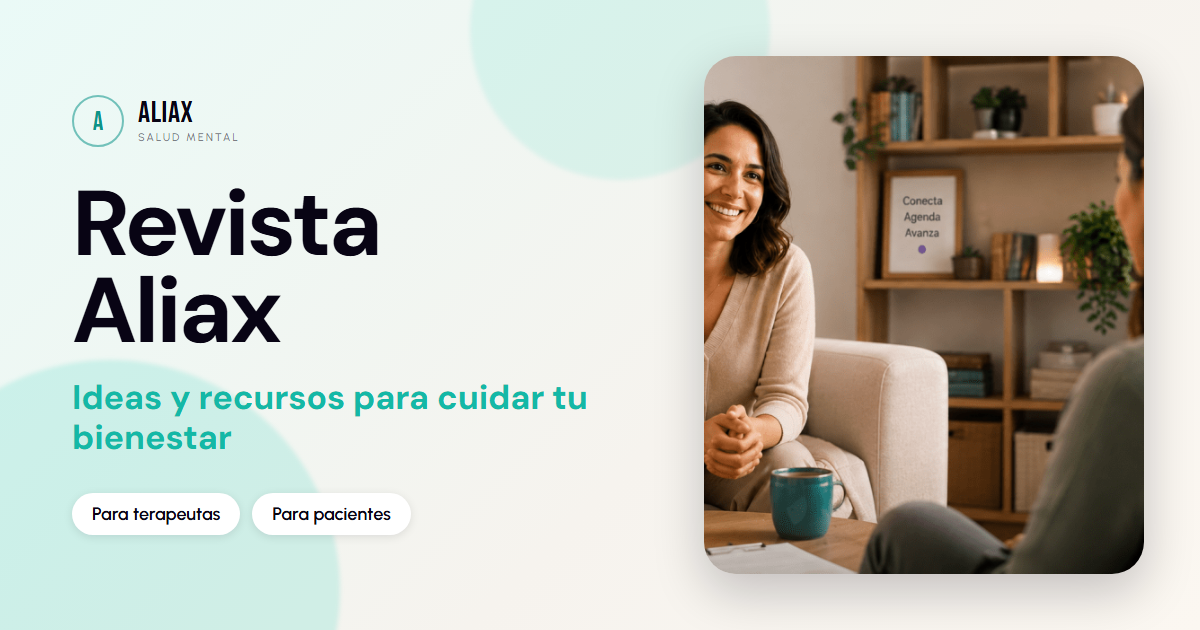
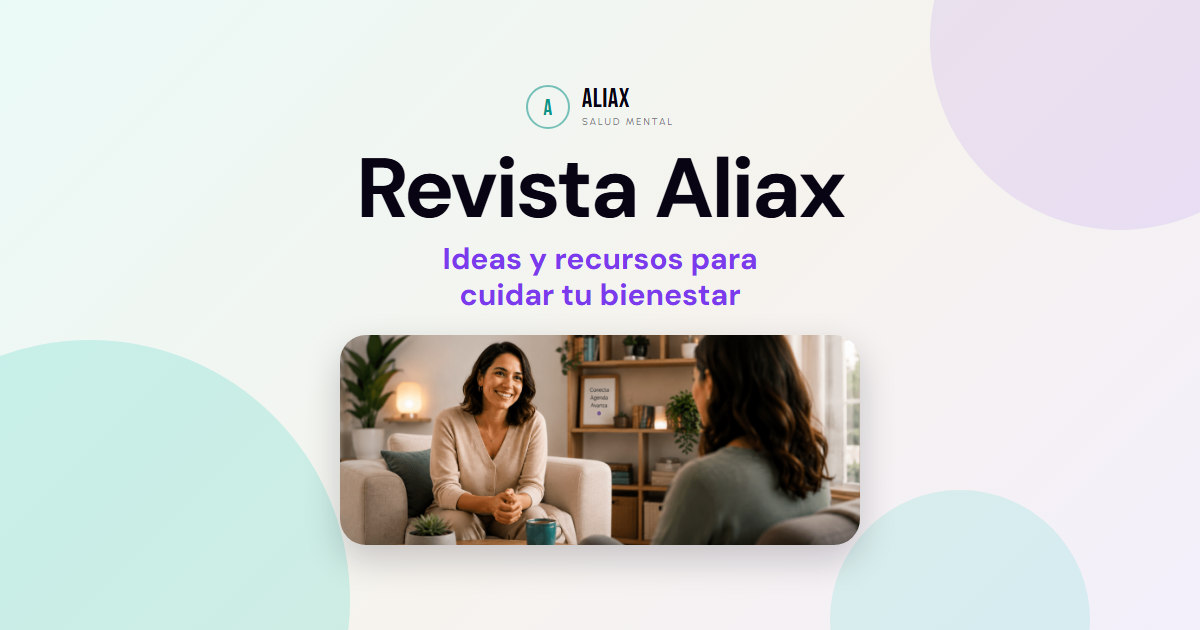
fix: contenido de la imagen de la Revista en el cuadrado central y subtitulo morado

diff --git a/frontend/scripts/generate-blog.ts b/frontend/scripts/generate-blog.ts
@@ -459,7 +459,7 @@ function generateListingPage(articles: Article[]): string {
   const body = `${renderNav()}
 <div style="max-width:1200px;margin:0 auto;padding:64px 24px">
   <h1 style="font-size:48px;text-align:center;margin:0 0 2px">Revista Aliax</h1>
-  <p style="text-align:center;font-size:26px;font-weight:700;letter-spacing:0.01em;color:#2dd4bf;margin:0 0 32px">Ideas y recursos para cuidar tu bienestar</p>
+  <p style="text-align:center;font-size:26px;font-weight:700;letter-spacing:0.01em;color:#7c3aed;margin:0 0 32px">Ideas y recursos para cuidar tu bienestar</p>
   ${pills}
   ${heroHtml}
   <h3 style="font-size:24px;margin-bottom:24px">Ultimos articulos</h3>
@@ -473,7 +473,7 @@ ${renderShareScript()}`;
     'Revista Aliax — Ideas y recursos para tu bienestar',
     'Articulos escritos por psicologos de Aliax, para pacientes y terapeutas.',
     `${SITE_URL}/revista`,
-    `${SITE_URL}/og-revista.png`,
+    `${SITE_URL}/og-revista-2.png`,
     body
   );
 }
